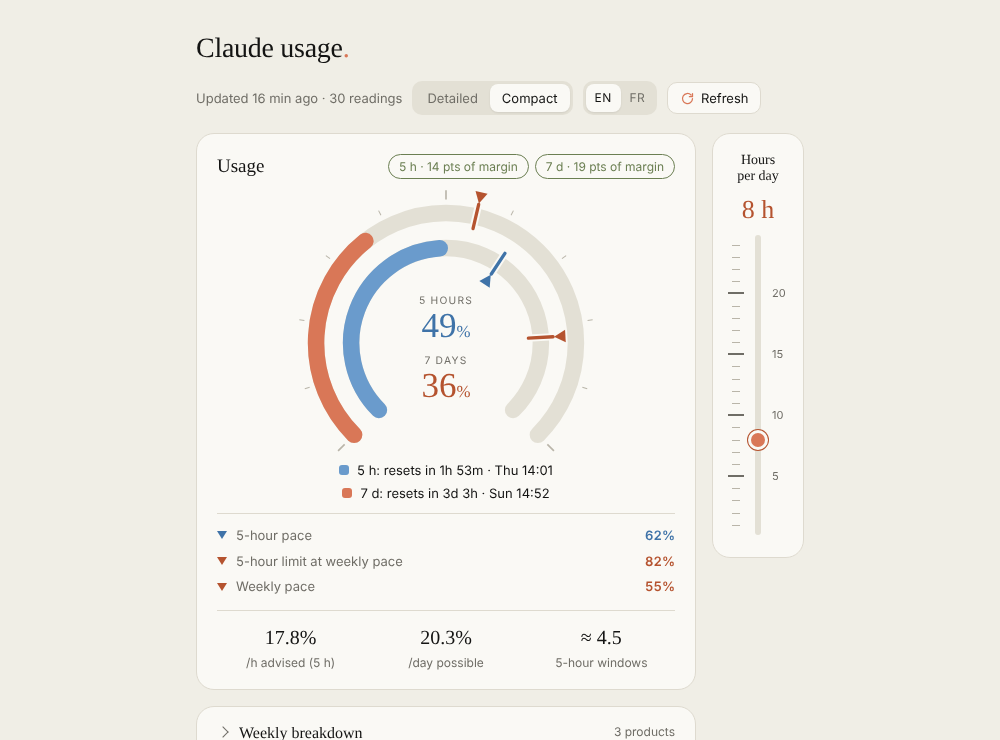
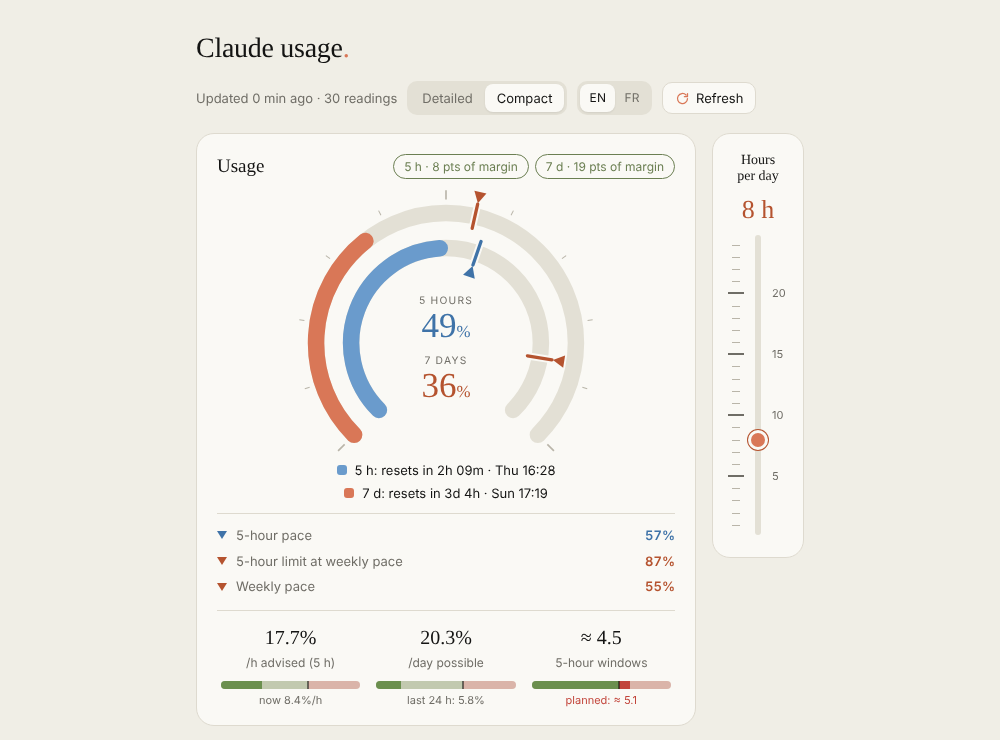
Add speedometer-style meters under the compact stats
Green zone up to the advised limit, red beyond; the filled part is the
measured consumption (5h rate over the last hour, weekly % over 24 h,
planned vs affordable 5-hour windows).

Claude-Session: https://claude.ai/code/session_01F8m832QxDmb2GnzwzbQV6q

diff --git a/web/js/views.js b/web/js/views.js
@@ -18,6 +18,22 @@ window.CU = window.CU || {};
     : t("reset.none");
   const budgetText = b => b >= 100 ? t("cap") : pct(b);
 
+  /* Speedometer-style bar. Zones: green up to `limit`, red beyond. The strong fill is the measured `value`;
+     the paler part is the zone still available. Returns "" when there is nothing sensible to draw. */
+  function meter(value, limit, caption) {
+    if (!(limit > 0) || !isFinite(limit)) return "";
+    const v = value == null || !isFinite(value) ? null : Math.max(0, value);
+    const scale = Math.max(limit * 1.6, (v || 0) * 1.08);
+    const p = x => (Math.min(x, scale) / scale * 100).toFixed(2);
+    const over = v != null && v > limit;
+    const fill = v == null ? "" : `<i class="f ok" style="width:${p(Math.min(v, limit))}%"></i>`
+      + (over ? `<i class="f bad" style="left:${p(limit)}%;width:${(p(v) - p(limit)).toFixed(2)}%"></i>` : "");
+    return `<div class="meter${over ? " is-over" : ""}" role="img" aria-label="${caption}">
+        <span class="zone ok" style="width:${p(limit)}%"></span><span class="zone bad" style="left:${p(limit)}%"></span>
+        ${fill}<u style="left:${p(limit)}%"></u>
+      </div><small class="mcap">${caption}</small>`;
+  }
+
   /* ---------------- detailed view: two cards ---------------- */
   function detail(m) {
     const { five, seven } = m;
@@ -96,9 +112,12 @@ window.CU = window.CU || {};
           ${li("tri", CLAY_INK, t("compact.legend.pace7"), pct(seven.pace))}
         </ul>
         <div class="stats">
-          <div><b>${pct(five.paceRate, 1)}</b><span>${t("stat.rate")}</span></div>
-          <div><b>${pct(seven.ratePerDay, 1)}</b><span>${t("stat.day")}</span></div>
-          <div><b>≈ ${num(seven.sessionsLeft)}</b><span>${t("stat.windows")}</span></div>
+          <div><b>${pct(five.paceRate, 1)}</b><span>${t("stat.rate")}</span>
+            ${meter(five.currentRate, five.paceRate, t("meter.now", { v: five.currentRate == null ? "—" : pct(five.currentRate, 1) + t("unit.perhour") }))}</div>
+          <div><b>${pct(seven.ratePerDay, 1)}</b><span>${t("stat.day")}</span>
+            ${meter(seven.usedLast24h, seven.ratePerDay, t("meter.day", { v: seven.usedLast24h == null ? "—" : pct(seven.usedLast24h, 1) }))}</div>
+          <div><b>≈ ${num(seven.sessionsLeft)}</b><span>${t("stat.windows")}</span>
+            ${meter(seven.plannedWindows, seven.sessionsLeft, t("meter.planned", { v: "≈ " + num(seven.plannedWindows) }))}</div>
         </div>
       </section>`;
   }

diff --git a/web/css/style.css b/web/css/style.css
@@ -4,20 +4,20 @@
   --track: #E3E0D5; --line: #DEDACF; --tick: #B9B5A9; --hover: #ECE9DF;
   --clay: #D97757; --clay-ink: #B5532F;
   --blue: #6A9BCC; --blue-ink: #3F73A8;
-  --sage: #6B7F52;
+  --sage: #6B7F52; --ok: #6B8F4E; --bad: #C2453B;
   --serif: "Tiempos Text", Georgia, "Times New Roman", serif;
 }
 @media (prefers-color-scheme: dark) {
   :root:not([data-theme="light"]) {
     --bg: #262624; --card: #30302E; --text: #F0EEE6; --muted: #A6A39A;
     --track: #44433F; --line: #3D3C38; --tick: #66645E; --hover: #3A3936;
-    --clay-ink: #E8957A; --blue-ink: #8DB6DE; --sage: #9DB383;
+    --clay-ink: #E8957A; --blue-ink: #8DB6DE; --sage: #9DB383; --ok: #8FB574; --bad: #E4766A;
   }
 }
 :root[data-theme="dark"] {
   --bg: #262624; --card: #30302E; --text: #F0EEE6; --muted: #A6A39A;
   --track: #44433F; --line: #3D3C38; --tick: #66645E; --hover: #3A3936;
-  --clay-ink: #E8957A; --blue-ink: #8DB6DE; --sage: #9DB383;
+  --clay-ink: #E8957A; --blue-ink: #8DB6DE; --sage: #9DB383; --ok: #8FB574; --bad: #E4766A;
 }
 
 * { box-sizing: border-box; }
@@ -135,3 +135,15 @@ svg.gauge { width: 100%; max-width: 330px; display: block; margin: 4px auto 0; }
 .err { margin-bottom: 14px; padding: 10px 14px; border-radius: 12px; border: 1px solid var(--clay); color: var(--clay-ink); font-size: 13px; }
 .empty { padding: 40px 20px; text-align: center; color: var(--muted); }
 .empty code { background: var(--track); padding: 2px 6px; border-radius: 5px; color: var(--text); }
+
+/* ---------- speedometer-style meters under the compact stats ---------- */
+.meter { position: relative; height: 8px; border-radius: 4px; overflow: hidden; margin: 8px 4px 0; background: var(--track); }
+.meter .zone { position: absolute; top: 0; bottom: 0; opacity: .28; }
+.meter .zone.ok { left: 0; background: var(--ok); }
+.meter .zone.bad { right: 0; background: var(--bad); }
+.meter .f { position: absolute; top: 0; bottom: 0; left: 0; }
+.meter .f.ok { background: var(--ok); }
+.meter .f.bad { background: var(--bad); }
+.meter u { position: absolute; top: -1px; bottom: -1px; width: 2px; margin-left: -1px; background: var(--text); opacity: .55; }
+.mcap { display: block; margin-top: 4px; font-size: 11px; color: var(--muted); }
+.meter.is-over + .mcap { color: var(--bad); }

diff --git a/web/js/model.js b/web/js/model.js
@@ -18,6 +18,28 @@ window.CU = window.CU || {};
     };
   }
 
+  /* Positive increments only: a drop is a window reset, not negative consumption. Returns null without enough data. */
+  function increments(history, key, span, now) {
+    const pts = (history || []).map(r => ({ t: Date.parse(r.t), v: r[key] })).filter(p => p.t >= now - span && p.t <= now && p.v != null);
+    if (pts.length < 2) return null;
+    let sum = 0;
+    for (let i = 1; i < pts.length; i++) sum += Math.max(0, pts[i].v - pts[i - 1].v);
+    return { sum, hours: (pts[pts.length - 1].t - pts[0].t) / H };
+  }
+  function recentRate(history, key, span, now, win5) {
+    const inc = increments(history, key, span, now);
+    if (inc && inc.hours > 0.05) return inc.sum / inc.hours;
+    if (win5) {                                       // too few readings: average since the window opened
+      const elapsed = (FIVE_H - win5.left) / H;
+      if (elapsed > 0.1) return win5.used / elapsed;
+    }
+    return null;
+  }
+  function recentUsed(history, key, span, now) {
+    const inc = increments(history, key, span, now);
+    return inc ? inc.sum : null;
+  }
+
   CU.compute = function (D, now = Date.now(), opts = {}) {
     if (!D || !D.seven_day) return null;
     const ratio = D.ratio_estimate || D.ratio_default;   // % of the week one full 5-hour window costs
@@ -38,6 +60,11 @@ window.CU = window.CU || {};
     five.budget = five.used + weeklyShare * 100 / ratio;
     five.maxRate = (100 - five.used) / (five.left / H);      // 5h-% per hour to end exactly at the reset
     five.paceRate = seven.ratePerHour * 100 / ratio;          // 5h-% per hour at the weekly pace
+
+    seven.activeHoursLeft = activeHoursLeft;
+    five.currentRate = recentRate(D.history, "h5", H, now, five.active ? five : null);   // 5h-% per hour, last hour
+    seven.usedLast24h = recentUsed(D.history, "d7", 24 * H, now);                       // weekly % consumed over 24 h
+    seven.plannedWindows = activeHoursLeft / 5;                                           // 5-hour windows you plan to work
 
     const fetched = D.fetched_at ? Date.parse(D.fetched_at) : null;
     return {

diff --git a/web/js/i18n.js b/web/js/i18n.js
@@ -68,6 +68,9 @@ window.CU = window.CU || {};
       "foot.estimated": "(estimated from {pts} pts of 5-hour usage observed).",
       "foot.default": "(default assumption, refined once there is enough history).",
       "foot.limit": "The orange limit on the 5-hour window spreads the rest of your week over the hours you work per day (slider), not over the nights.",
+      "meter.now": "now {v}",
+      "meter.day": "last 24 h: {v}",
+      "meter.planned": "planned: {v}",
       "hours.title": "Hours per day",
       "hours.aria": "Hours of Claude use per day",
       "hours.value": "{n} h",
@@ -136,6 +139,9 @@ window.CU = window.CU || {};
       "foot.estimated": "(estimé sur {pts} pts de 5 h observés).",
       "foot.default": "(hypothèse par défaut, affinée dès que l'historique suffit).",
       "foot.limit": "La limite orange de la fenêtre 5 h répartit le reste de ta semaine sur les heures que tu travailles par jour (curseur), pas sur les nuits.",
+      "meter.now": "actuel {v}",
+      "meter.day": "24 dernières h : {v}",
+      "meter.planned": "prévu : {v}",
       "hours.title": "Heures par jour",
       "hours.aria": "Heures d'utilisation de Claude par jour",
       "hours.value": "{n} h",
